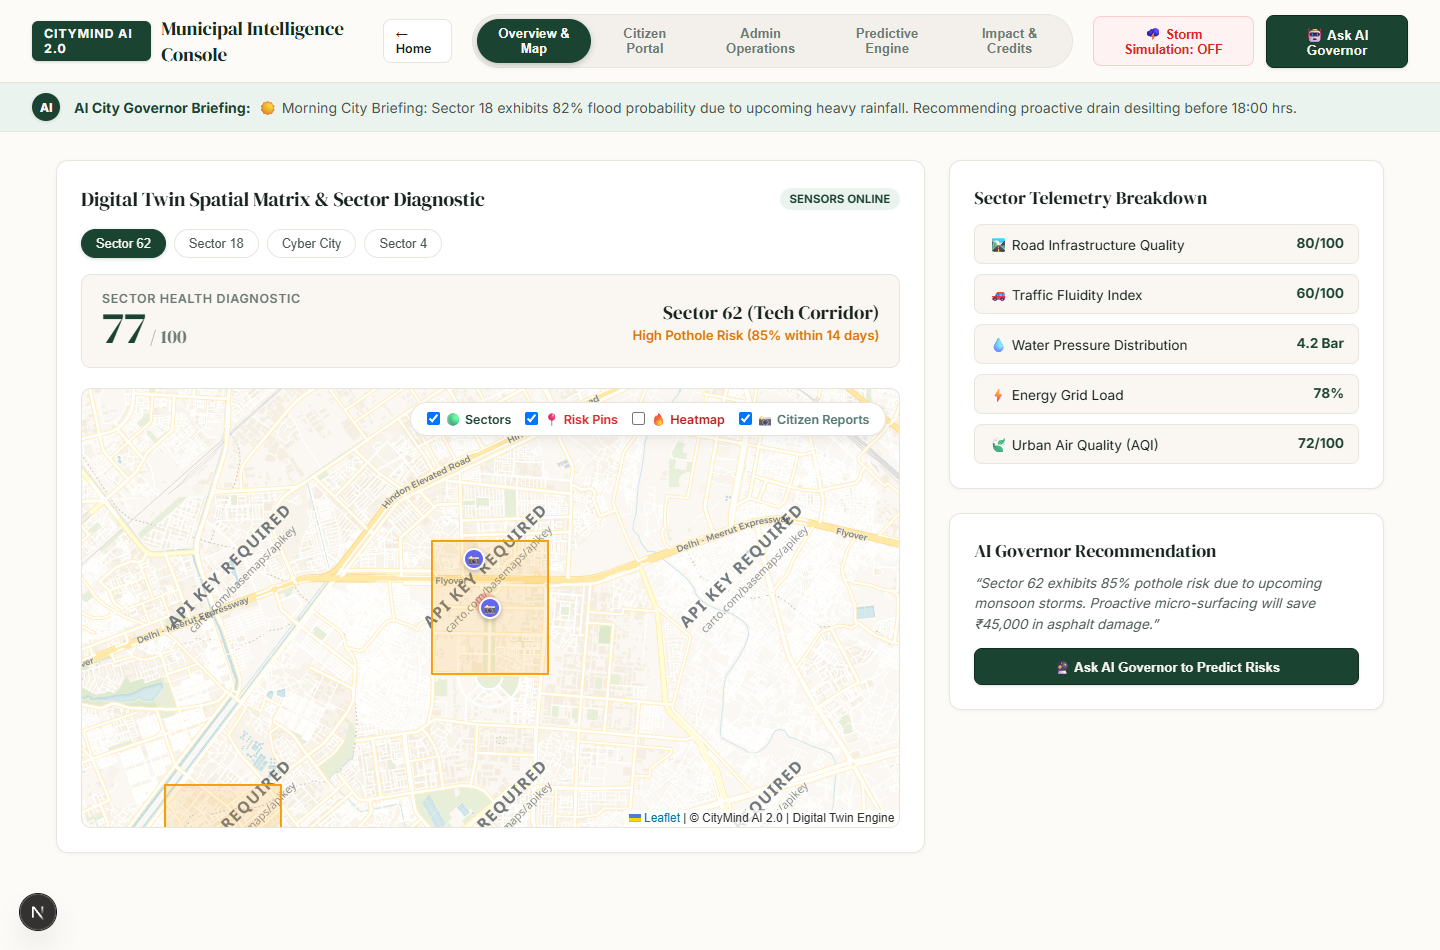
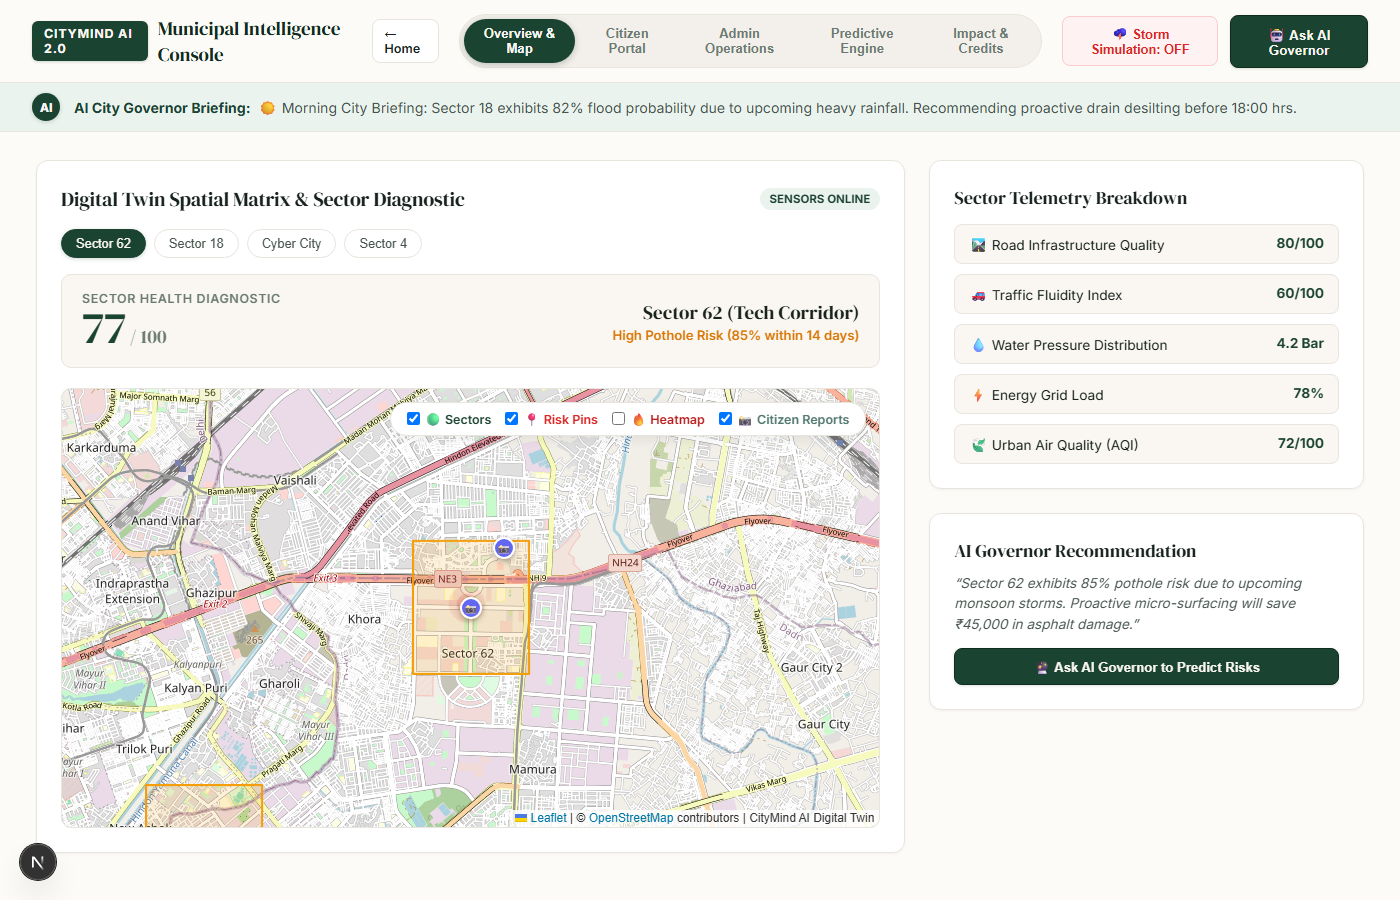
fix: switch map to OpenStreetMap tiles and refresh dashboard-twin screenshot

diff --git a/citymind-app/components/DigitalTwinMap.jsx b/citymind-app/components/DigitalTwinMap.jsx
@@ -36,9 +36,8 @@ export default function DigitalTwinMap({ selectedSectorId, onSectorSelect, userR
       zoomControl: false
     });
 
-    L.tileLayer('https://{s}.basemaps.cartocdn.com/rastertiles/voyager/{z}/{x}/{y}{r}.png', {
-      attribution: '&copy; CityMind AI 2.0 | Digital Twin Engine',
-      subdomains: 'abcd',
+    L.tileLayer('https://tile.openstreetmap.org/{z}/{x}/{y}.png', {
+      attribution: '&copy; <a href="https://www.openstreetmap.org/copyright" target="_blank" rel="noreferrer">OpenStreetMap</a> contributors | CityMind AI Digital Twin',
       maxZoom: 19
     }).addTo(map);
 

diff --git a/README.md b/README.md
@@ -55,7 +55,7 @@ The public-facing portal presents an architectural, warm editorial aesthetic bui
 ---
 
 ### 2. Municipal Digital Twin Spatial Matrix
-Real-time GIS mapping powered by Leaflet and Carto Voyager basemaps, displaying live sector diagnostics, dynamic risk heatmaps, and spatial telemetry.
+Real-time GIS mapping powered by Leaflet and OpenStreetMap basemaps, displaying live sector diagnostics, dynamic risk heatmaps, and spatial telemetry.
 
 ![Digital Twin Map & Sector Telemetry](docs/screenshots/dashboard-twin.png)
 
